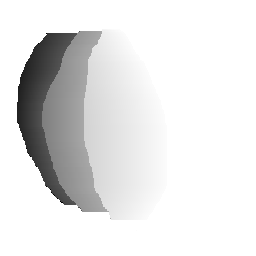
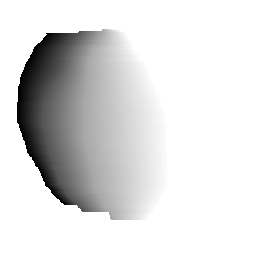
Fixed _t & output converted (float64 to float32)

Changed region(s): [[0.0625, 0.0938, 0.5312, 0.875]]

diff --git a/main.py b/main.py
@@ -15,9 +15,8 @@ Comments    :   I have no idea how freeform gradient's algo works I'm just playi
 ## IMAGE MUST BE A PNG FILE WITH ALPHA CHANNEL AVAILABLE
 
 ## INPUT IMAGE LOCATION
-IN_IMAGE = "lerp_it_3.png"
-OUT_IMAGE = "lerped_it_3_.png"
-
+IN_IMAGE = "lerp_it_4.png"
+OUT_IMAGE = "lerped_it_4.png"
 
 ########### CODE ##############
 '''
@@ -52,6 +51,9 @@ def getAPIsRow(img_row) -> array:
 
 # LOAD THE IMAGE WITH ALPHA CHANNEL — 'IMREAD_UNCHANGED' DOES THAT FOR US
 img = cv2.imread(IN_IMAGE,cv2.IMREAD_UNCHANGED)
+# print(getAPIsRow(img[0]))
+# exit()
+
 
 # GENERATE OUTPUT IMAGE DUMMY (!HARD CODED!)
 output = np.zeros(img.shape)
@@ -70,6 +72,7 @@ for y in range(0,len(img)):
         _start = alphaIndexes[index]    # eg: 0
         _end = alphaIndexes[index+1]    # eg: 3
         
+        print(f'start: {_start} end: {_end}')
         # img[y][_start] = Start pixel  eg: [0 0   0 255]
         # img[y][_end] = End pixel      eg: [0 255 0 255]
 
@@ -77,7 +80,8 @@ for y in range(0,len(img)):
         # Lerp the pixels and update the output
         # Checkout the "example.py" to understand how the following loop works
         for i in range(_start,_end):
-            _t = i/_end # Gets the t value for the pixels
+            _t = round(((i-_start)/(_end-_start)),3) # Gets the t value for the pixels
+            print(f'i: {i} (i-_start): {i-_start} _t: {_t}')
             output[y][i] = lerpArray(img[y][_start],img[y][_end],_t)
 
         # break the loop if we are at second last item cause
@@ -93,6 +97,8 @@ for y in range(0,len(img)):
     # OUTER FOR LOOP ENDS HERE
 
 # print(output)
-
-# SAVE THE OUTPUT TO A FILE
-cv2.imwrite(OUT_IMAGE, output)
+# # SAVE THE OUTPUT TO A FILE
+img_float32 = np.float32(output)
+# color correction
+lab_image = cv2.cvtColor(img_float32, cv2.COLOR_BGRA2RGBA)
+cv2.imwrite(OUT_IMAGE,img_float32)
